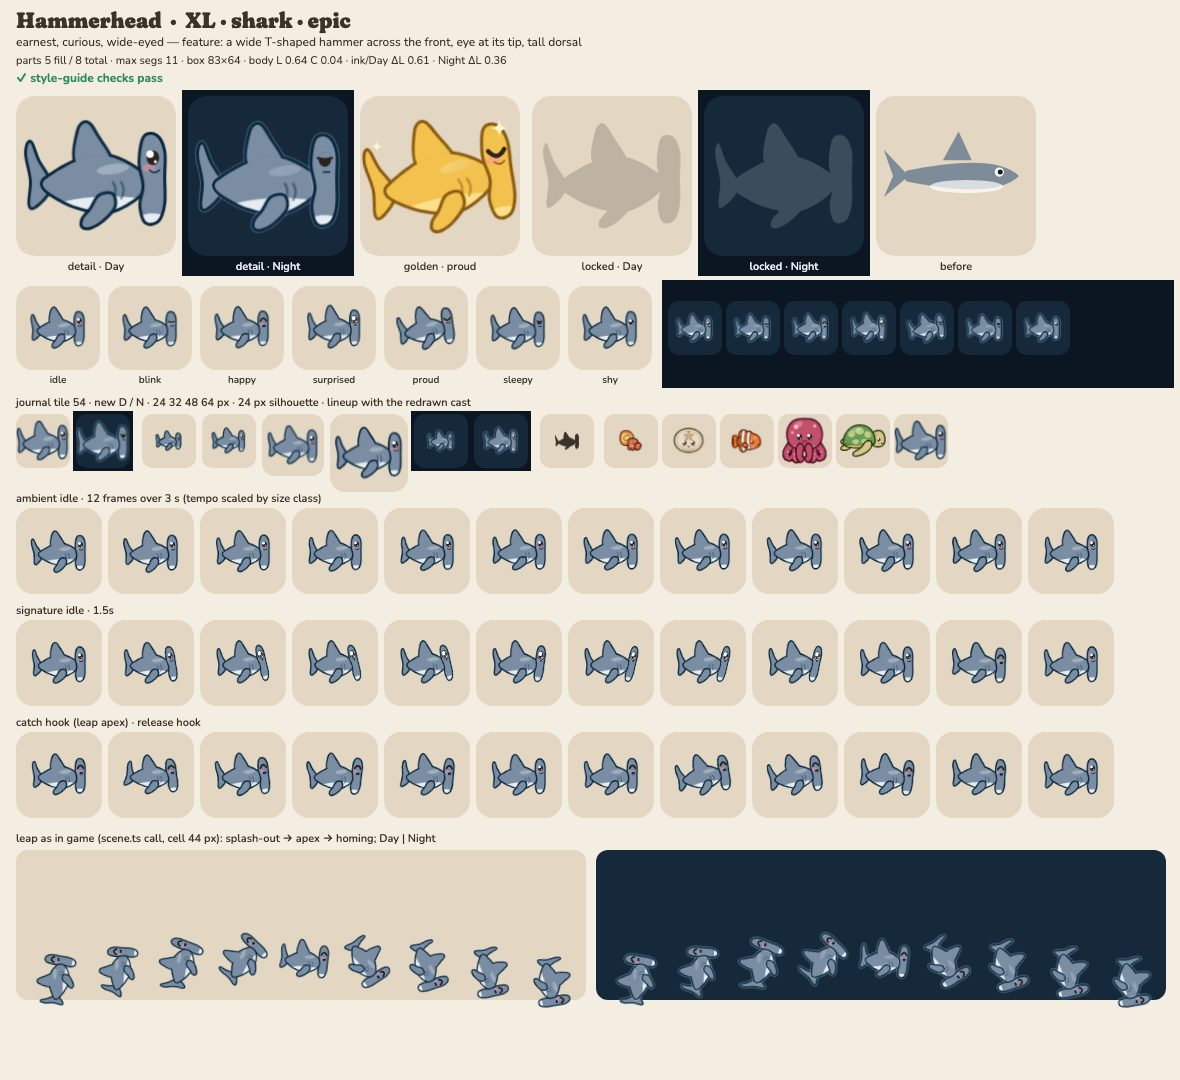
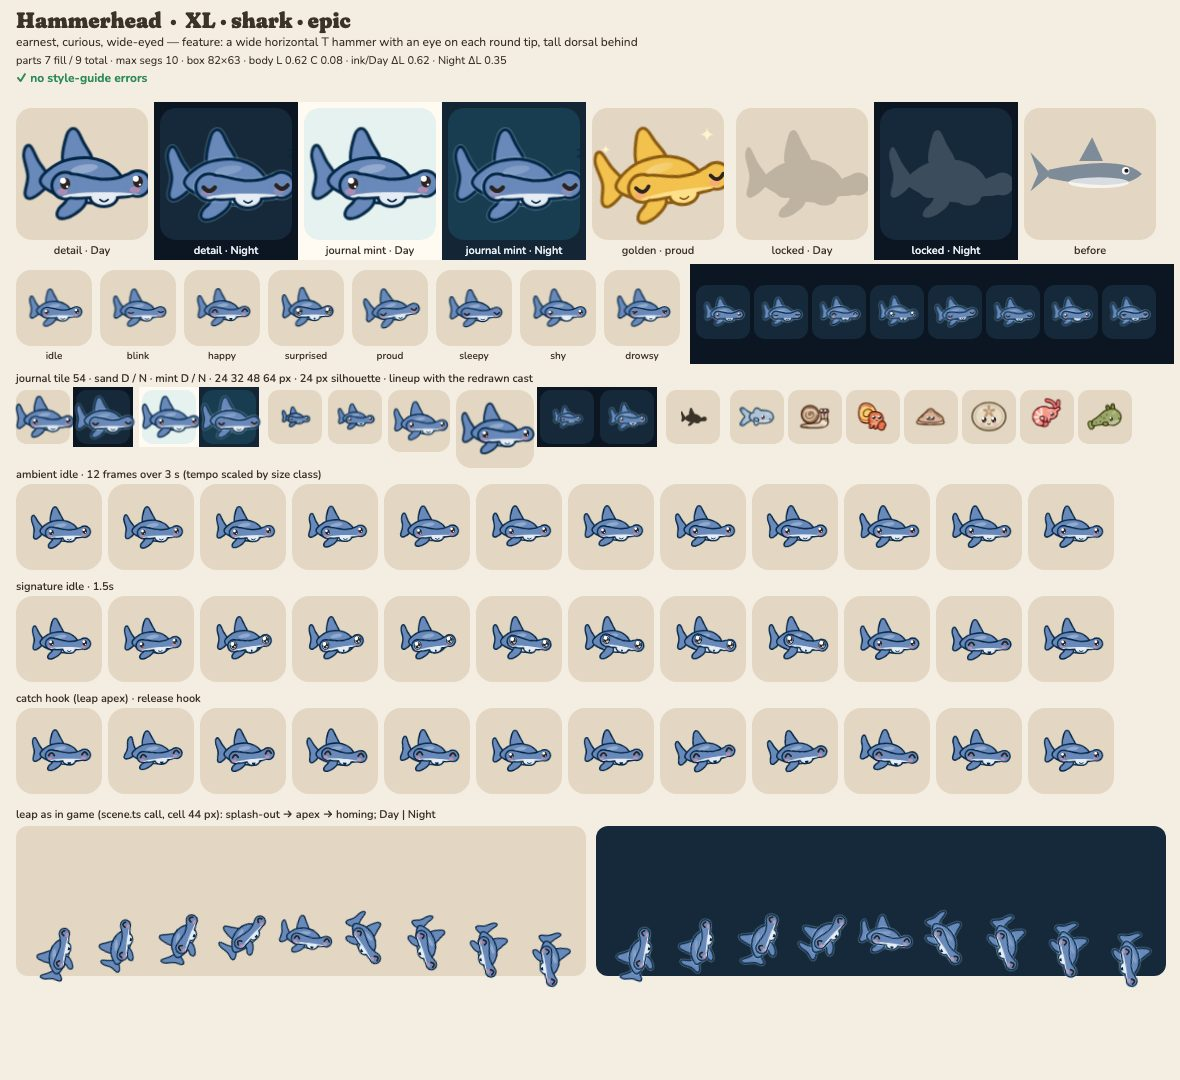
art: hammerhead redo — 3/4 front T hammer, an eye on each tip (ADR 0011)
CRITIQUE-1 C: wide horizontal hammer (lobes extra) with face.profile eyes
on both tips and a smile on the chin, dorsal on its own layer (level),
right lobe breaks the XL frame 3.7 px, body chroma 0.083. Lint-clean.
Closest: dolphin 0.697.

diff --git a/src/render/art/species/hammerhead.ts b/src/render/art/species/hammerhead.ts
@@ -1,106 +1,116 @@
 /**
- * Hammerhead — SHARK class (profile body, the hammer turned a little toward us).
- * Silhouette: a plump torpedo with a tall rounded dorsal, a crescent shark tail, and the
- * signature T: a wide rounded hammer bar across the front (R10, exaggerated ~2×).
- * Personality: earnest, curious, wide-eyed. Signature: scans side to side with the hammer
+ * Hammerhead — SHARK class, three-quarter front view (it swims toward us and a little right).
+ * Silhouette: the signature T (R10, exaggerated): a wide horizontal hammer across the front, its
+ * span ≈ 1.3× the body, with an eye on each round tip (`face.profile`: two eyes, profile rules);
+ * the plump body recedes behind it with a tall rounded dorsal and a crescent tail. The right tip
+ * breaks the XL tile frame by ~3 px (R28).
+ * Personality: earnest, curious, wide-eyed. Signature: scans left and right with the hammer
  * ("sees every direction"), then a pleased little nod.
  */
-import { blob, defineArt, ellipse, tube } from '../kit.ts';
+import { blob, circle, defineArt, ellipse, join, tube } from '../kit.ts';
 
+// the body seen from the front-left: a plump teardrop running back and up behind the hammer
 const body = blob([
-  [30, -2],
-  [22, -10],
-  [8, -17],
-  [-4, -18],
+  [26, 2],
+  [18, -10],
+  [2, -16],
   [-16, -14],
-  [-30, -6],
-  [-35, -1],
-  [-30, 5],
-  [-14, 13],
-  [4, 16],
-  [20, 9],
-]);
-// a gentle forward crescent, one piece with the snout: round lobes top and bottom, the eye on the top one
-const hammer = blob([
-  [27, -29],
-  [34, -30],
-  [38.5, -21],
-  [38.5, -5],
-  [38.5, 11],
-  [35, 21],
-  [28, 22],
-  [25, 12],
-  [27, 0],
-  [24.5, -14],
+  [-28, -7],
+  [-33, 0],
+  [-27, 6],
+  [-12, 12],
+  [6, 15],
+  [20, 12],
 ]);
 const dorsal = blob([
-  [6, -14],
-  [-2, -30],
-  [-8, -38],
-  [-13, -33],
-  [-14, -14],
+  [2, -14],
+  [-4, -28],
+  [-9, -37],
+  [-14, -33],
+  [-16, -13],
 ]);
 const tail = blob([
-  [-31, -3],
-  [-38, -15],
-  [-42.5, -26],
-  [-44.5, -19],
-  [-41.5, -3],
-  [-42.5, 11],
-  [-40, 13],
-  [-32, 5],
+  [-29, -3],
+  [-36, -14],
+  [-42, -25],
+  [-45, -19],
+  [-42, -4],
+  [-44, 9],
+  [-40, 11],
+  [-31, 4],
 ]);
+// the hammer: a wide bar, a touch smile-curved, with round lobes at the tips; the lobes are `extra`
+// so the bar's span can break the frame without shrinking the shark
+const bar = blob([
+  [-14, -4],
+  [4, -1.5],
+  [12, -0.5],
+  [22, -1.5],
+  [35, -5],
+  [35, 8],
+  [22, 10.5],
+  [12, 11.5],
+  [4, 10.5],
+  [-14, 10],
+]);
+const lobes = join(circle(-16, 3, 8.6), circle(36.5, 1.5, 8.2));
+// the chin under the middle of the hammer carries the little smile
+const chin = ellipse(12, 11, 9, 6);
 const pectoral = tube([
-  [4, 10, 5.4],
-  [-2, 18, 4.6],
-  [-8, 23, 3.2],
+  [-6, 12, 5.4],
+  [-12, 19, 4.6],
+  [-18, 23, 3.2],
 ]);
 
 export default defineArt({
   id: 'hammerhead',
   klass: 'shark',
   size: 'XL',
-  feature: 'a wide T-shaped hammer across the front, eye at its tip, tall dorsal',
+  feature: 'a wide horizontal T hammer with an eye on each round tip, tall dorsal behind',
   personality: ['earnest', 'curious', 'wide-eyed'],
-  palette: { body: '#7A8DA3', belly: '#E6ECF2' },
+  palette: { body: '#6889BA', belly: '#E6ECF4' },
   groups: [
-    { id: 'tail', pivot: [-33, 0], parts: [{ d: tail, role: 'body' }] },
+    { id: 'tail', pivot: [-30, 0], parts: [{ d: tail, role: 'body' }] },
+    // the dorsal is its own layer behind the body, so the body itself rests level (R5T)
+    { id: 'dorsal', pivot: [-8, -14], parts: [{ d: dorsal, role: 'body' }] },
     {
       id: 'body',
       parts: [
-        { d: dorsal, role: 'body' },
         { d: body, role: 'body' },
-        { d: ellipse(-2, 15, 34, 8, -4), role: 'belly', kind: 'pattern' },
-        { d: 'M8 -2C10 1 10 5 8 8M13 -2C15 1 15 5 13 8', role: 'ink', kind: 'line', w: 1.4, alpha: 0.5 },
+        { d: ellipse(-6, 16, 26, 7, -6), role: 'belly', kind: 'pattern' },
       ],
     },
+    { id: 'finA', pivot: [-6, 11], parts: [{ d: pectoral, role: 'body' }] },
     {
       id: 'head',
-      pivot: [26, 0],
+      pivot: [12, 6],
       parts: [
-        { d: hammer, role: 'body' },
-        { d: ellipse(32, 23, 12, 6), role: 'belly', kind: 'pattern' },
+        { d: chin, role: 'belly' },
+        { d: bar, role: 'body' },
+        { d: lobes, role: 'body', extra: true },
+        { d: ellipse(12, 11, 30, 3.4), role: 'belly', kind: 'pattern' },
       ],
     },
-    { id: 'finA', pivot: [4, 9], parts: [{ d: pectoral, role: 'body' }] },
   ],
-  shine: ellipse(8, -10, 10, 3.2, -8),
+  shine: ellipse(-2, -9, 10, 3.2, -10),
   face: {
     g: 'head',
-    eyes: [[32, -17]],
-    eye: 9,
-    zone: [24, -32, 18, 56],
-    mouth: { at: [33, -9.5], w: 6, shape: 'smile' },
+    eyes: [
+      [-16, 1.5],
+      [36.5, 0],
+    ],
+    eye: 8.4,
+    zone: [-24, -20, 70, 36],
+    mouth: { at: [12, 13], w: 6, shape: 'smile' },
+    profile: true,
     sweet: true,
-  },
-  deviations: {
-    R7: 'the appendix puts the eye at the hammer tip, far forward and high, not 34 % back along the body',
   },
   idle: {
     ambient: [
       { m: 'bob', amp: 1.5, period: 3.2 },
       { m: 'wag', g: 'tail', amp: 7, period: 1.4 },
       { m: 'flutter', g: 'finA', amp: 8, period: 1.6 },
+      { m: 'sway', g: 'head', amp: 2, period: 3.2, phase: 0.25 },
     ],
     signature: {
       dur: 1.5,
@@ -111,33 +121,32 @@ export default defineArt({
           p: 'rot',
           k: [
             [0, 0],
-            [0.15, -14],
-            [0.35, -14],
-            [0.5, 14],
-            [0.7, 14],
-            [0.85, -3],
+            [0.15, -9],
+            [0.35, -9],
+            [0.5, 9],
+            [0.7, 9],
+            [0.85, -2],
             [1, 0],
           ],
         },
         {
           g: 'head',
-          p: 'sx',
+          p: 'tx',
           k: [
-            [0, 1],
-            [0.15, 0.82],
-            [0.35, 0.82],
-            [0.42, 1],
-            [0.5, 0.82],
-            [0.7, 0.82],
-            [0.85, 1],
+            [0, 0],
+            [0.15, -3],
+            [0.35, -3],
+            [0.5, 3],
+            [0.7, 3],
+            [0.85, 0],
           ],
         },
         {
-          p: 'rot',
+          p: 'ty',
           k: [
             [0, 0],
             [0.8, 0],
-            [0.88, 4],
+            [0.88, 2],
             [1, 0],
           ],
         },
@@ -167,8 +176,8 @@ export default defineArt({
         p: 'rot',
         k: [
           [0, 0],
-          [0.3, -10],
-          [0.65, 8],
+          [0.3, -8],
+          [0.65, 6],
           [1, 0],
         ],
       },

diff --git a/docs/art/notes/fleet-5.md b/docs/art/notes/fleet-5.md
@@ -115,3 +115,23 @@ Species: hammerhead, dolphin, whaleshark, angler, otter, goldturtle. Sheets in `
 - **Self-grade:** B+. Clearly its own legend, and it glides; regal more than cute.
 - **Would improve:** there's no way to make `proud` its resting face (the rig's idle is fixed), and
   regal leans on it; the far (second) front flipper raised as a wing would sell flight better.
+
+---
+
+# Redo round (CRITIQUE-1, kit Amendment 1)
+
+## hammerhead — C → redo, 3/4 front view
+- **Brief:** 3/4 front view, wide horizontal T (span 1.3× body), an eye at each tip, frame-break
+  2–4 px, tall dorsal behind, keep the scan.
+- **Build:** a 70-unit hammer bar (lobes `extra`) across the front of a plump body that recedes
+  back-left; `face.profile: true` puts an eye on each lobe (eye 8.4, 23 % of the zone); a belly chin
+  under the middle carries the smile. The right lobe breaks the XL frame by 3.7 px. The dorsal is
+  its own layer so the body rests level (R5T 5°). Body `#6889BA` (C 0.083, R16S).
+- **Rounds (3):**
+  1. Reads at once: a T with two eyes and a smile. But R5T 27° (the dorsal inside the body group
+     tilted the body's axis) and a 3.5 px break that sat right at the edge.
+  2. Dorsal moved to its own layer (5°), right lobe trimmed. Lint-clean.
+  3. Bigger, lower lobes so both tips bulge past the body outline and the T reads in the 24 px mask;
+     eye 8 → 8.4.
+- **Self-grade:** A-. Earnest and wide-eyed; the scan swings the hammer with both eyes.
+- **Tight pair:** dolphin 0.697 (limit 0.70), so the dolphin redo moves away from it.
